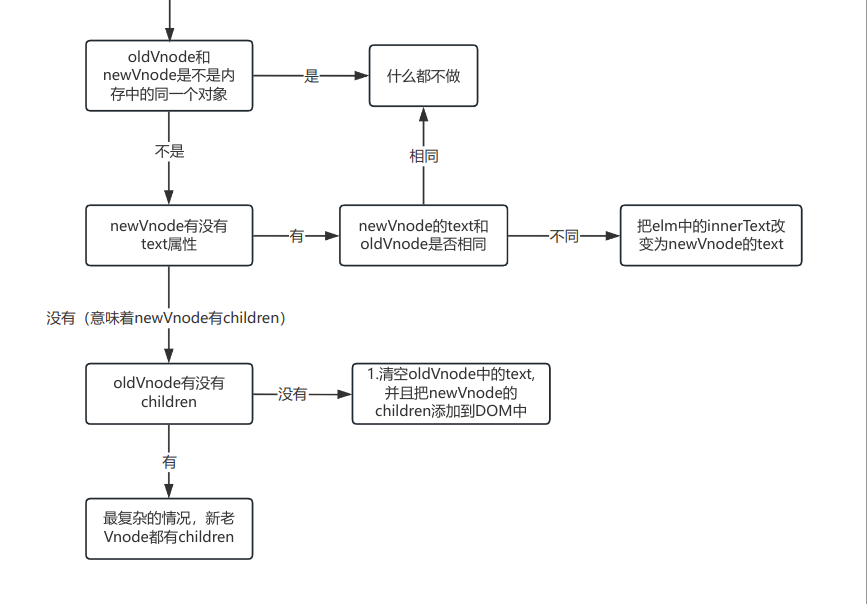
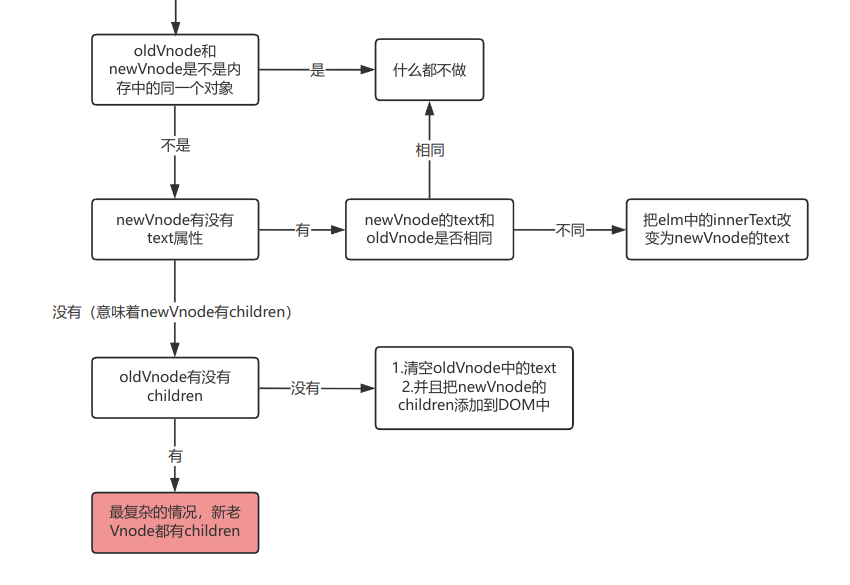
手写新旧节点text的不同情况

Changed region(s): [[0.0612, 0.0, 0.9788, 0.9538]]

diff --git a/src/mysnabbdom/patch.js b/src/mysnabbdom/patch.js
@@ -7,11 +7,37 @@ export default function patch(oldVnode, newVnode) {
         // 传入的第一个参数是DOM节点，此时要包装为虚拟节点
         oldVnode = vnode(oldVnode.tagName.toLowerCase(), {}, [], undefined, oldVnode);
     }
-
     // 判断oldVnode和newVnode是不是同一个节点
     // 判断key和选择器是否是同一个
     if(oldVnode.key == newVnode.key && oldVnode.sel == newVnode.sel){
         console.log('是同一个节点');
+        // 判断新旧vnode是否同一个对象（内存中）
+        if (oldVnode === newVnode) return;
+        // 判断新vnode有没有text属性
+        if (newVnode.text != undefined && (newVnode.children == undefined || newVnode.children.length == 0)) {
+            console.log('新Vnode有text属性')
+            if (newVnode.text == oldVnode.text) {
+                return;
+            } else {
+                // 如果新虚拟节点中的text和老的虚拟节点的text不同，那么直接让新的text写入老的elm中即可.如果老的elm中是children,也会消失掉
+                oldVnode.elm.innerText = newVnode.text;
+            }
+        } else {
+            console.log('新Vnode没有text属性')
+            // 判断老的有没有children
+            if (oldVnode.children != undefined && oldVnode.children.length > 0){
+                // 老的有children,此时是最复杂的情况。新老都有children
+            } else {
+                // 老的没有children,新的有
+                // 清空老的节点的内容
+                oldVnode.elm.innerHTML = '';
+                // 遍历新的vnode子节点，创建DOM上树
+                for (let i = 0; i < newVnode.children.length; i++) {
+                    let dom = createElement(newVnode.children[i]);
+                    oldVnode.elm.appendChild(dom);
+                }
+            }
+        }
     } else {
         console.log('不是同一个节点，暴力插入新的，删除旧的');
         let newVnodeElm = createElement(newVnode);
@@ -20,6 +46,6 @@ export default function patch(oldVnode, newVnode) {
             oldVnode.elm.parentNode.insertBefore(newVnodeElm, oldVnode.elm);
         }
         // 删除老节点
-        oldVnode.elm.parentNode.removeChild(oldVnode);
+        oldVnode.elm.parentNode.removeChild(oldVnode.elm);
     }
 };

diff --git a/src/index.js b/src/index.js
@@ -2,19 +2,18 @@ import h from './mysnabbdom/h.js'
 import patch from './mysnabbdom/patch.js';
 
 const container = document.getElementById('container');
+const btn = document.getElementById('btn');
 // var myVode1 = h('h1', {}, '文字')
-var myVode1 = h('ul', {}, [
-    h('li', {}, [
-        h('ol', {}, [
-            h('li', {}, 'A'),
-            h('li', {}, 'B'),
-            h('li', {}, 'C')
-        ])
-    ]),
-    h('li', {}, 'B'),
-    h('li', {}, 'C')
-]);
-//btn.onclick = function() {
-//    patch(container,myVode1)
-//}
+var myVode1 = h('section', {}, '文字');
 patch(container,myVode1)
+
+// 创建新节点
+const myVode2 = h('section', {}, [
+    h('p', {}, 'A'),
+    h('p', {}, 'B'),
+    h('p', {}, 'C')
+])
+
+btn.onclick = function() {
+    patch(myVode1,myVode2);
+}

diff --git a/src/mysnabbdom/createElement.js b/src/mysnabbdom/createElement.js
@@ -3,7 +3,6 @@
 export default function createElement(vnode) {
     // 目的是把虚拟节点vnode真正变为DOM
     // 创建一个DOM节点，这个节点现在还是孤儿节点
-    console.log(111)
     let domNode = document.createElement(vnode.sel);
     // 有子节点还是文本
     if(vnode.text != '' && (vnode.children == undefined || vnode.children.length == 0)) {

diff --git a/README.md b/README.md
@@ -1,7 +1,29 @@
 # 手写虚拟DOM
+算法思想：
+1. 如果新老节点不是同一个节点名称，那么就暴力删除旧的节点，创建插入新的节点。
+2. 只能同级比较，不能跨层比较。如果跨层那么就暴力删除旧的节点，创建插入新的节点。
+3. 如果是相同节点，又分为很多情况 
+   1. 新节点有没有children <br />
+        如果新的节点没有children，那就证明新节点是文本，那直接把旧的替换成新的文本
+   2. 新节点有children <br />
+         新的有children，旧的也有children ----> 就是diff算法的核心了 <br />
+         新的有children，旧的没有 ----> 创建元素添加（把旧的内容删除清空掉，增加新的）
+   3. diff算法的核心（最复杂的情况）
+      1. 旧前 和 新前   <br />
+            匹配：旧前的指针++ 、 新前的指针++
+      2. 旧后 和 新后   <br />
+            匹配：旧后的指针-- 、 新后的指针--
+      3. 旧前 和 新后   <br />
+            匹配：旧前的指针++ 、 新后的指针--
+      4. 旧后 和 新前   <br />
+            匹配：旧后的指针-- 、 新前的指针++
+      5. 以上都不满足条件 ----> 查找     <br />
+            新的指针++，新的添加到页面上并且新在旧的种有，要给旧的复制成undefined
+      6. 创建或者删除   <br />
+注意：如果要提升性能，一定要加入key，key是唯一标示，在更改前后，确认是不是同一个节点。
 
 ## diff处理新旧节点
-![img.png](static/img.png)
+![img.png](static/img1.png)
 
 ## 手写第一次上树时：只有文本的情况
 ![img2.png](static/img2.png)
@@ -11,8 +33,14 @@
 ## 手写递归创建子节点
 ![img.png](static/img4.png)
 
+这里删除老节点有错误，删除的应该是oldVnode.elm，后面已改正
+
 ![img.png](static/img5.png)
 
 ![img.png](static/img6.png)
 
 ## diff处理新旧节点是同一节点时
+![img.png](static/img7.png)
+
+## 手写新旧节点text的不同情况
+![img.png](static/img8.png)
